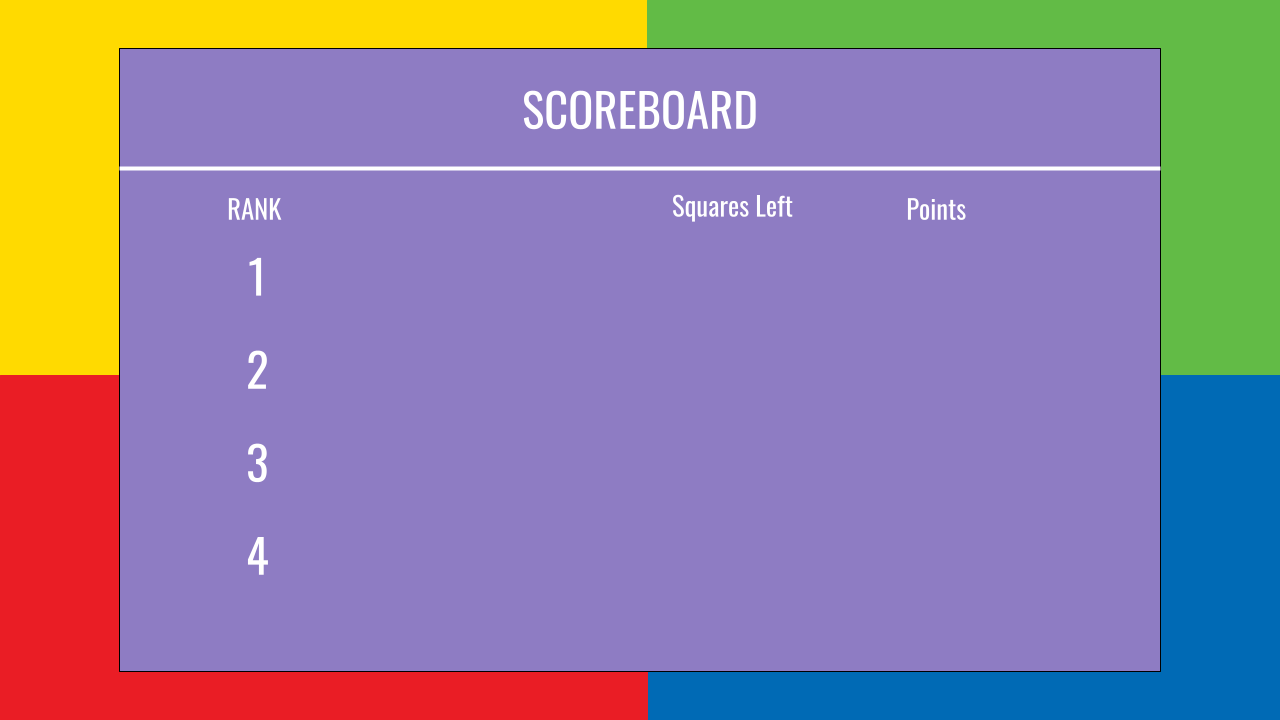
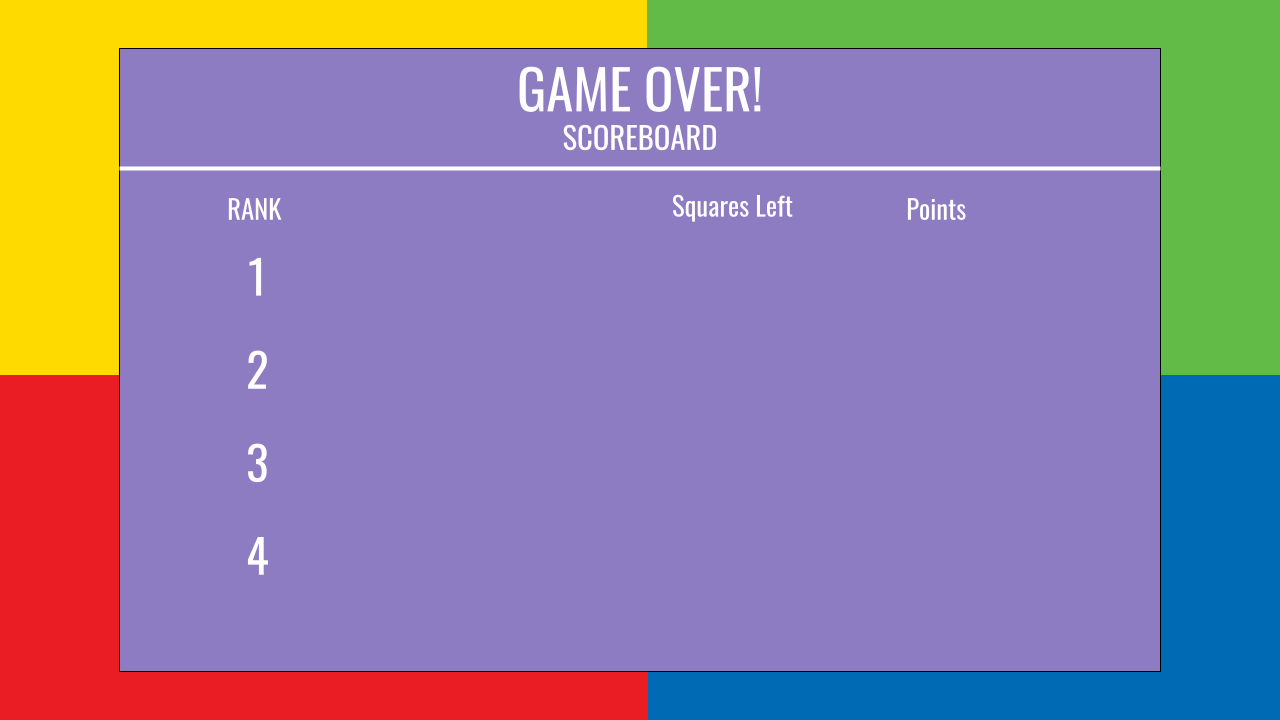
updated game over screen

Changed region(s): [[0.4062, 0.0917, 0.5938, 0.2139]]

diff --git a/Blokus.java b/Blokus.java
@@ -213,7 +213,7 @@ public class Blokus implements ActionListener, MouseListener, MouseMotionListene
 				theGamePanel.strName[intConnected] = ssm.readText();
 				intConnected++;
 				System.out.println("playerCount: " + intConnected);
-				if(intConnected == 4){
+				if(intConnected == 2){
 					startButton.setEnabled(true);
 				}
 				
@@ -383,9 +383,18 @@ public class Blokus implements ActionListener, MouseListener, MouseMotionListene
 					
 		}else if(evt.getSource() == skipButton){
 			//When skip is equal to 4 then end game
+			if(theGamePanel.intTurn < 4){
+				theGamePanel.intTurn++;
+			}else{
+				theGamePanel.intTurn = 1;
+			}
 			theGamePanel.intSkip++;
-			if(theGamePanel.intSkip == 4){
-				theGamePanel.boolEndGame = true;
+			System.out.println("Turn: " + theGamePanel.intTurn);
+			if(theGamePanel.intSkip >= 4){
+				theGamePanel.setVisible(false);
+				theGameOverPanel.add(backButton);
+				theGameOverPanel.setVisible(true);
+				theFrame.setContentPane(theGameOverPanel);
 			}
 		}
 	}
@@ -522,7 +531,6 @@ public class Blokus implements ActionListener, MouseListener, MouseMotionListene
 		backButton.setSize(200,55);
 		backButton.setLocation(950,600);
 		backButton.addActionListener(this);
-		theGameOverPanel.add(backButton);
 		//add to other panels when panels is selected...
 		
 		//Skip Button Game

diff --git a/BlokusGameOverPanel.java b/BlokusGameOverPanel.java
@@ -30,7 +30,7 @@ public class BlokusGameOverPanel extends JPanel{
 		//Draw image
 		g.drawImage(gameover, 0, 0, null);
 		g.setColor(Color.BLACK);
-	
+	/*
 		//Counting people
 		//Open File
 		try{
@@ -124,6 +124,7 @@ public class BlokusGameOverPanel extends JPanel{
 				g.drawImage(red, 724, (intCount *  92) + 267, null);
 			}
 		}
+		*/
 	}
 	//Constructor
 	public BlokusGameOverPanel(){
